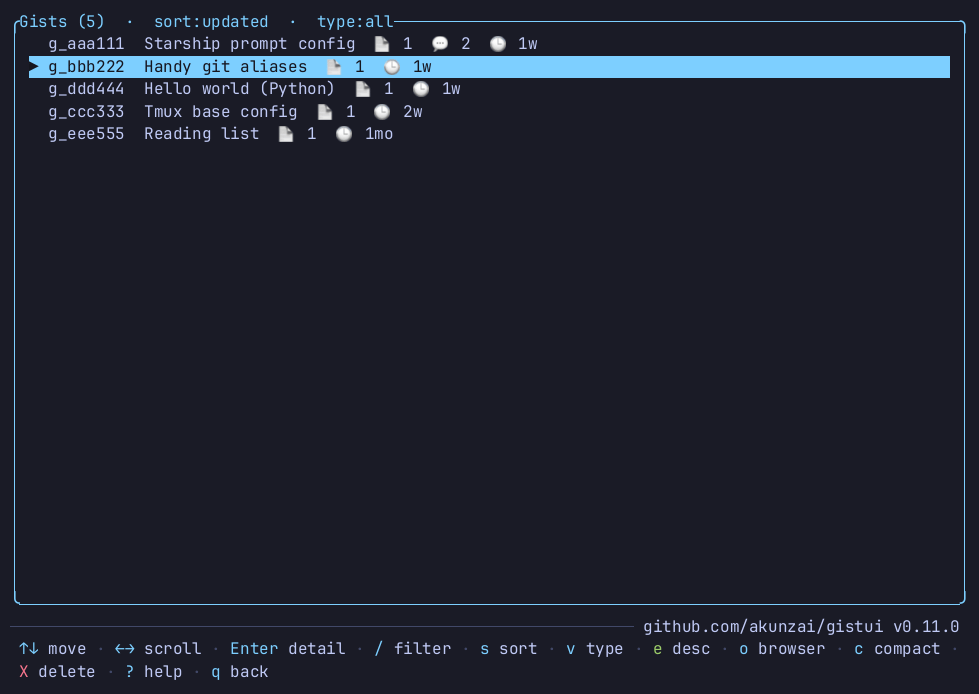
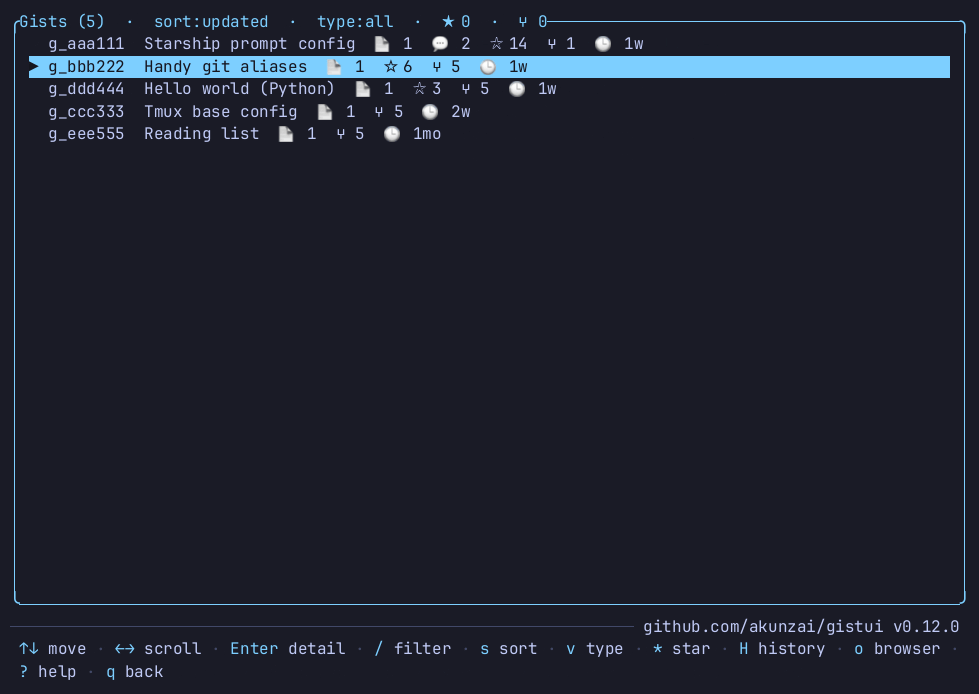
chore: release 0.12.0 — refresh demo assets and finalize changelog
Re-record demo.gif and gist-manager.png with an isolated demo cache,
expanded fake-gh (starred/graphql/user APIs), and a storyboard that
shows TOML preview, shell diff syntax highlight, and upload/download
without the visibility-cycle keys that leaked ★ badges from host cache.

diff --git a/scripts/demo/seed.py b/scripts/demo/seed.py
@@ -24,6 +24,9 @@ GISTS = {
         "public": True,
         "updated_at": "2026-06-09T18:20:00Z",
         "created_at": "2026-03-01T00:00:00Z",
+        "node_id": "GIST_g_aaa111",
+        "stargazers": 14,
+        "forks": 1,
         "comments": 2,
         "files": {
             "starship.toml": (
@@ -43,6 +46,8 @@ GISTS = {
         "public": True,
         "updated_at": "2026-06-08T09:00:00Z",
         "created_at": "2026-02-10T00:00:00Z",
+        "node_id": "GIST_g_bbb222",
+        "stargazers": 6,
         "files": {
             "aliases.sh": (
                 "#!/usr/bin/env bash\n"
@@ -65,6 +70,7 @@ GISTS = {
         "public": False,
         "updated_at": "2026-05-30T12:00:00Z",
         "created_at": "2026-01-15T00:00:00Z",
+        "node_id": "GIST_g_ccc333",
         "files": {
             "tmux.conf": (
                 "set -g mouse on\n"
@@ -78,6 +84,8 @@ GISTS = {
         "public": True,
         "updated_at": "2026-06-07T15:30:00Z",
         "created_at": "2026-04-01T00:00:00Z",
+        "node_id": "GIST_g_ddd444",
+        "stargazers": 3,
         "files": {"hello.py": 'print("Hello, world!")\n'},
     },
     "g_eee555": {
@@ -85,6 +93,7 @@ GISTS = {
         "public": False,
         "updated_at": "2026-04-20T08:00:00Z",
         "created_at": "2026-04-20T08:00:00Z",
+        "node_id": "GIST_g_eee555",
         "files": {
             "notes.md": (
                 "# Reading list\n\n"
@@ -138,8 +147,9 @@ LOCAL = {
 
 def main():
     if XDG.exists():
-        shutil.rmtree(XDG)  # drop persisted pins from a previous run
+        shutil.rmtree(XDG)  # drop persisted pins + cache from a previous run
     XDG.mkdir(parents=True, exist_ok=True)
+    (XDG / "cache").mkdir(parents=True, exist_ok=True)
     STATE.parent.mkdir(parents=True, exist_ok=True)
     WORK.mkdir(parents=True, exist_ok=True)
 

diff --git a/scripts/demo/record.py b/scripts/demo/record.py
@@ -58,8 +58,10 @@ def main():
     steps = json.loads(open(STEPS_FILE).read())
 
     env = dict(os.environ)
+    env.pop("NO_COLOR", None)  # host shells often set this; demo must show syntax colours
     env["PATH"] = FAKEBIN + ":" + env["PATH"]  # gistui's `gh` resolves to fake-gh
     env["XDG_CONFIG_HOME"] = os.path.join(HOME, "xdg")
+    env["XDG_CACHE_HOME"] = os.path.join(HOME, "xdg", "cache")
     env["TERM"] = "xterm-256color"
     env["COLUMNS"] = str(COLS)
     env["LINES"] = str(ROWS)

diff --git a/scripts/demo/shoot.py b/scripts/demo/shoot.py
@@ -62,8 +62,10 @@ def main():
     steps = json.loads(open(STEPS_FILE).read())
 
     env = dict(os.environ)
+    env.pop("NO_COLOR", None)  # host shells often set this; shots must show syntax colours
     env["PATH"] = FAKEBIN + ":" + env["PATH"]  # gistui's `gh` resolves to fake-gh
     env["XDG_CONFIG_HOME"] = os.path.join(HOME, "xdg")
+    env["XDG_CACHE_HOME"] = os.path.join(HOME, "xdg", "cache")
     env["TERM"] = "xterm-256color"
     env["COLUMNS"] = str(COLS)
     env["LINES"] = str(ROWS)

diff --git a/scripts/demo/README.md b/scripts/demo/README.md
@@ -44,12 +44,13 @@ runs), and it is deleted on exit.
 
 ## Storyboard
 
-Browse with ranking ⭐ → pin a pair + the Pins view → cycle visibility (`v`) →
-**syntax-highlighted preview** (`Space`, a TOML file) → diff with word-level
-highlight, **syntax-highlighted context** and the `c` context toggle → upload
-with the confirm diff → the **download overwrite gate** (`d` → diff → `d` →
-`y/n`) → help (`?`). The fixtures pair a TOML and a shell file so the
-highlighting shows across two languages.
+Browse with ranking → pin a pair + the Pins view → **syntax-highlighted preview**
+(`Space`, a TOML file) → shell-script diff with word-level highlight and
+**syntax-highlighted context** (`c` context toggle) → upload with the confirm
+diff → the **download overwrite gate** (`d` → diff → `d` → `y/n`) → help (`?`).
+The recording uses an isolated `XDG_CONFIG_HOME` + `XDG_CACHE_HOME` so a stale
+host cache cannot leak starred-gist badges into the demo, and unsets `NO_COLOR`
+so diff/preview syntax highlighting is captured even when the host shell disables it.
 
 ## Requirements
 

diff --git a/CHANGELOG.md b/CHANGELOG.md
@@ -10,8 +10,10 @@ and this project adheres to [Semantic Versioning](https://semver.org/spec/v2.0.0
 
 ## [Unreleased]
 
-- Fixed: `T` theme toggle stopped working after vim navigation began passing real key modifiers (Shift+T was ignored).
+## [0.12.0] — 2026-06-19
+
 - Vim-style navigation: `h`/`j`/`k`/`l` move and scroll alongside arrow keys; `Ctrl+b` / `Ctrl+f` page up/down by 10 (same as PageUp/PageDown) on every scrollable screen, including the main list (Files/Gists panes), Pins, and Gist manager. Revision history is now `H` (was `h`); cycling the revision target file is `F` (was `f`).
+- Fixed: `T` theme toggle stopped working after vim navigation began passing real key modifiers (Shift+T was ignored).
 - README slimmed for scannability: installation and safety reference docs moved to `reference/` (kept out of GitHub Pages `docs/`); contributor/agent sections to `CONTRIBUTING.md` / `AGENTS.md`; Usage keeps essential keys and points to in-app `?` for the complete keymap. Landing page updated (install link-out, current gist-manager copy, doc footer links).
 - Gist detail: `*` stars or unstars the open gist (footer hint + `★ starred` in the info line when starred); the info line also shows `☆ N` (stargazers), `⑂ N` (forks), and `💬 N` (comments) when non-zero.
 - Edit description (`e`), compact revisions (`c`), and delete gist (`X`) moved from the gist manager to gist detail; they appear only for gists you own (silent no-op on others' gists — no read-only warning).
@@ -120,7 +122,8 @@ and this project adheres to [Semantic Versioning](https://semver.org/spec/v2.0.0
 - Off-thread loading with an on-disk cache.
 - Overwrite-confirm safety gate.
 
-[unreleased]: https://github.com/akunzai/gistui/compare/v0.11.0...HEAD
+[unreleased]: https://github.com/akunzai/gistui/compare/v0.12.0...HEAD
+[0.12.0]: https://github.com/akunzai/gistui/releases/tag/v0.12.0
 [0.11.0]: https://github.com/akunzai/gistui/releases/tag/v0.11.0
 [0.10.0]: https://github.com/akunzai/gistui/releases/tag/v0.10.0
 [0.9.0]: https://github.com/akunzai/gistui/releases/tag/v0.9.0